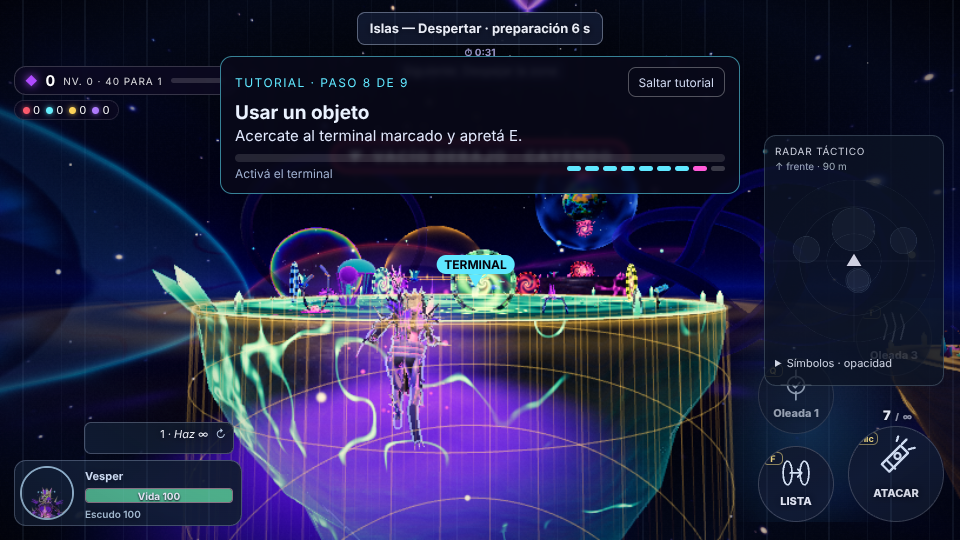
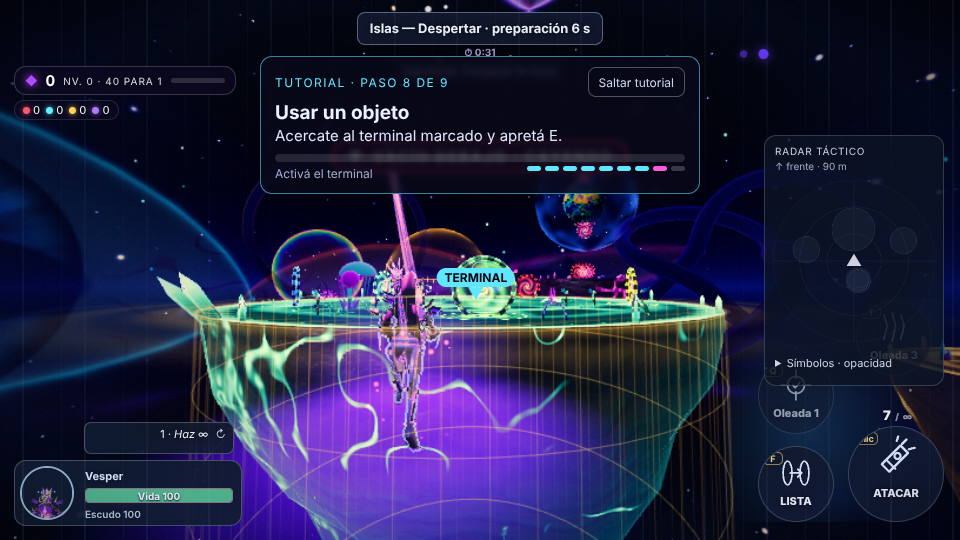
Sprint 1-A: misiones declarativas de 8 oleadas con jefe final en los 6 capítulos, límites duros, 'Islas — Despertar', Oleada X/Y y reloj
Claude-Session: https://claude.ai/code/session_01FQkQoAoCaRgGqcom58Ns3g

diff --git a/tests/onboarding-browser.test.js b/tests/onboarding-browser.test.js
@@ -79,10 +79,11 @@ test('onboarding E2E: menú → elegir primer Huésped → cinemática saltable 
     // 6) segunda vez: el mismo perfil NO ve el selector, ni la cinemática, ni el tutorial
     await pg.evaluate(() => { window.__sinPiloto = true; }); await pg.goto(url); await pg.waitForFunction(() => window.__api && window.__ui, null, { timeout: 90000 });
     await pg.evaluate(() => window.__ui.confirmTitle()); await pg.waitForTimeout(800);
-    await pg.click('#continuar'); await pg.click('#modes .card >> nth=0'); await pg.waitForSelector('#story [data-campaign]:not([hidden])'); await pg.click('#story [data-campaign]:not([hidden]):not(:disabled) >> nth=0');
+    await pg.click('#continuar');   // con la campaña ya empezada, «Continuar» retoma directo (sin selector ni cinemática)
     await pg.waitForFunction(() => window.__api.session && window.__api.session.game, null, { timeout: 90000 });
     assert.equal(await pg.locator('#primerhuesped').count(), 0); assert.equal(await pg.locator('#transfer').count(), 0); assert.equal(await pg.evaluate(() => !!window.__api.session.game.tutorial), false, 'sin tutorial la 2.ª vez');
     assert.equal(await pg.evaluate(() => window.__api.renderer.third), true, 'cámara en tercera persona por defecto');
+    await pg.keyboard.press('Enter'); await pg.waitForFunction(() => !window.__api.session.intro, null, { timeout: 60000 });   // la intro de capítulo pausa la simulación: se salta para medir que la cámara no la frena
     // cámara (AC-05 en el navegador): el botón alterna sin frenar la simulación; cambiar de modo NO fuerza la cámara salvo «Cámara automática por modo»
     const cam = await pg.evaluate(async () => {
       const A = window.__api, r = {}; r.ini = A.renderer.third; const t0 = A.session.game.time;

diff --git a/src/client/tutorial-ui.js b/src/client/tutorial-ui.js
@@ -39,7 +39,7 @@ export function crearTutorialUI({ THREE, renderer, root = document.body, sound =
     if (tut.marca === 'blanco') { mk = tut.mp; txt = 'BLANCO' + (tut.vida != null ? ` · ${Math.round(tut.vida * 100)} %` : ''); }
     else if (tut.marca === 'terminal') { mk = tut.mp; txt = 'TERMINAL' + (tut.usar ? ' · USAR' : ''); }
     else if (tut.marca === 'botiquin') { mk = tut.mp; txt = 'BOTIQUÍN'; }
-    else if (tut.zona) { mk = tut.zona.p; txt = tut.zona.espera ? 'Probá de nuevo' : '¡SALÍ DEL CÍRCULO!'; }
+    // (el círculo a esquivar se ve en el suelo y el panel lo explica: sin marcador flotante que choque con los botones)
     const pr = mk && proyectar(mk);
     if (pr && !pr.atras) { mark.hidden = false; mark.dataset.k = tut.marca || 'zona'; mark.firstChild.textContent = txt; mark.style.left = `${Math.max(40, Math.min(innerWidth - 40, pr.x))}px`; mark.style.top = `${Math.max(90, Math.min(innerHeight - 30, pr.y))}px`; } else mark.hidden = true;
     // objetos del mundo

diff --git a/public/onboarding.css b/public/onboarding.css
@@ -30,7 +30,7 @@
 body.tr-on #sub { z-index: 9450; }
 
 /* tutorial jugable */
-#tutpanel { position: fixed; z-index: 60; left: 50%; top: 56px; transform: translateX(-50%); width: min(520px, calc(100vw - 32px)); background: rgba(8, 8, 26, .82); border: 1px solid rgba(95, 231, 255, .55); border-radius: 12px; padding: 10px 14px 12px; color: #eaf2ff; pointer-events: auto; backdrop-filter: blur(3px); }
+#tutpanel { position: fixed; z-index: 60; left: 50%; top: 56px; transform: translateX(-50%); width: min(440px, calc(100vw - 32px)); background: rgba(8, 8, 26, .82); border: 1px solid rgba(95, 231, 255, .55); border-radius: 12px; padding: 10px 14px 12px; color: #eaf2ff; pointer-events: auto; backdrop-filter: blur(3px); }
 #tutpanel[hidden] { display: none; }
 #tutpanel .tp-top { display: flex; justify-content: space-between; align-items: center; gap: 8px; font-size: 12px; letter-spacing: .12em; text-transform: uppercase; color: #5fe7ff; }
 #tutpanel h4 { margin: 4px 0 2px; font-size: 19px; }

diff --git a/src/sim/game.js b/src/sim/game.js
@@ -70,7 +70,7 @@ export class Game {
     this.state = 'playing'; // playing | won | lost
     this.cfg = this.operation ? misionConfig(mapId) : null;   // definición declarativa de la misión (src/sim/mision-config.js): etapas, jefe y límites
     this.wave = 0; this.waveTotal = this.cfg ? this.cfg.stages.length : (WAVE_PLANS[mapId] || []).length + 1;
-    this.tier = 1; this.stageT = 0; this.stageLimit = Infinity; this.pickWait = 0;   // tier = intensidad de la etapa; stageT = tiempo en la etapa; pickWait = espera por la elección de mejora
+    this.tier = 0; this.stageT = 0; this.stageLimit = Infinity; this.pickWait = 0;   // tier = intensidad de la etapa; stageT = tiempo en la etapa; pickWait = espera por la elección de mejora
     this.phase = 'intermission'; this.phaseT = calm; // calma inicial (la historia usa más)
     this.queue = []; this.omens = []; this.spawnT = 0; this.spawnGap = 1.5;
     this.boss = null; this.mision = null; this.forceElite = false;
